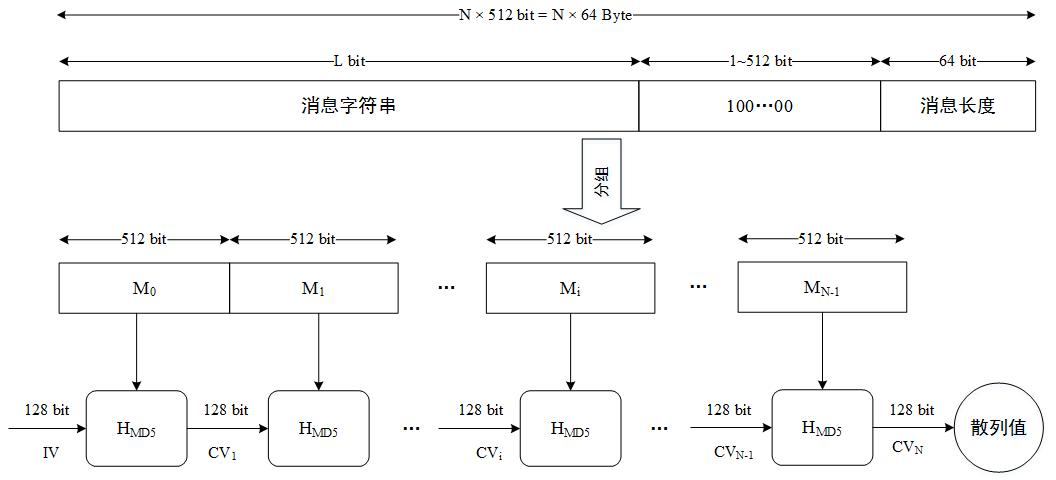
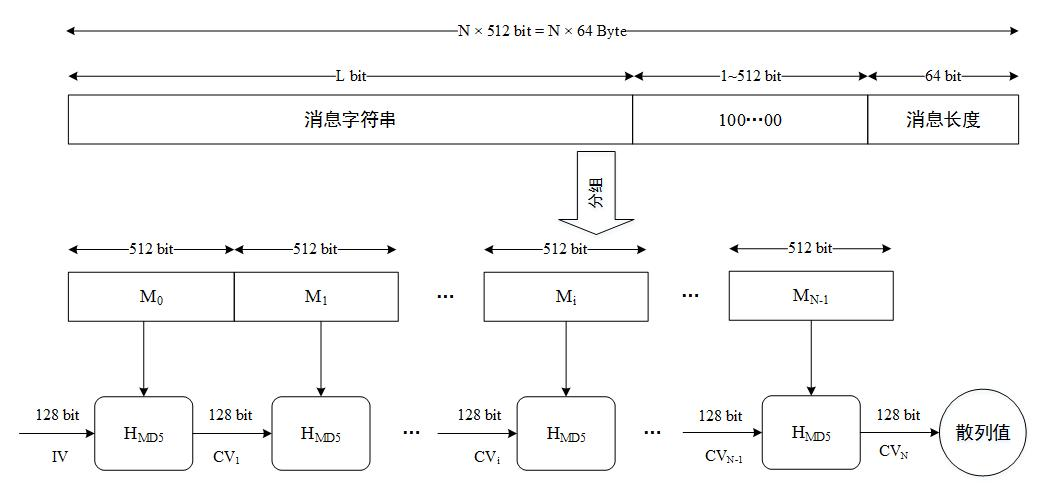
Update Hash Length Extension Attack 1.Update the flow charts in MD5 hash function. 2.Revise the illustration of attack theory.

diff --git a/source/_posts/Hash Length Extension Attack（哈希长度扩展攻击）.md b/source/_posts/Hash Length Extension Attack（哈希长度扩展攻击）.md
@@ -25,44 +25,60 @@ mathjax: true
 
 [MD5](https://en.wikipedia.org/wiki/MD5) 算法由美国麻省理工密码学家 [Ronald Rivest](https://en.wikipedia.org/wiki/Ron_Rivest) 在 MD2、MD3 与 MD4 的基础上设计而成，并在 1992 年公开发表，在规范 [RFC 1321](https://tools.ietf.org/html/rfc1321) 中作了详尽阐述。
 
-MD5 算法的输入为长度小于 $2^{64} \ bit$ 的消息比特串，输出为固定 $128 \ bit$ 的消息散列值。输入的数据以 $512 \ bit$ 为分组进行处理。MD5 算法流程如下图所示。
+MD5 算法的输入为长度小于 $2^{64} \ bit$ 的消息比特串，输出为固定 $128 \ bit$ 的消息散列值，输入数据需要以 $512 \ bit$ 为单位进行分组。
+
+MD5 算法的流程图如下：
 
 ![md5_process](http://oyhh4m1mt.bkt.clouddn.com/Hash_Length_Extension_Attack/md5_process.jpg)
 
-其中 $L$ 是消息比特串；$N$ 是消息扩充后的分组个数；$M_i$ 是第 $i$ 个分组，$0 \le i \le N-1$；$IV$ 是 $128 \ bit$ 的初始链接变量，由 4 个 $32 \ bit$ 的寄存器构成；$CV_i$ 是链接变量，代表第 $i$ 个分组单元的输入，而最后一个单元 $B_{N-1}$ 的输出 $CV_N$ 即为消息的散列值。算法具体流程如下：
+-  $L$ 是消息比特串的原始长度；
+
+-  $N$ 是消息扩充后的分组个数；
+
+-  $M_i$ 是消息扩充后的第 $i$ 个分组，$0 \le i \le N-1$；
+
+-  $IV$ 是 $128 \ bit$ 的初始链接变量，由 4 个 $32 \ bit$ 的寄存器构成；
+
+-  $CV_i$ 是链接变量，代表 $M_i$ 分组单元的输入，也是 $M_{i-1}$ 分组单元的输出，$1 \le i \le N-1$。**注意，最后一个分组单元 $M_{N-1}$ 的输出 $CV_N$ 即为消息的散列值。**
+
+MD5 算法的具体流程描述如下：
 
 ### （1）附加填充
 
-先填充一个“1”比特和若干个“0”比特使消息长度在模 512 下与 448 同余，再将消息的原始长度用一个 $64 \ bit$ 的整型表示，以[小端字节序（Little-Endian）](https://en.wikipedia.org/wiki/Endianness#Little)的方式继续填充，使得扩充后的消息长度为 $512 \ bit$ 的整数倍，可表示为：
+先填充一个「1」比特和若干个「0」比特使消息长度在模 512 下与 448 同余，再将消息的原始长度用一个 $64 \ bit$ 的整型表示，以[小端字节序（Little-Endian）](https://en.wikipedia.org/wiki/Endianness#Little)的方式继续填充，使得扩充后的消息长度为 $512 \ bit$ 的整数倍，可表示为：
 
 $$
 \begin{cases}
-L + padding_1 + padding_2 = N \times 512  \\
-L + padding_1 \equiv 448 \ mod \ 512  \\
+L + padding\_seq + padding\_len = N \times 512  \\
+L + padding\_seq \equiv 448 \ mod \ 512  \\
 \end{cases}
 $$
 
-其中 $L$ 是消息比特串；$padding_1$ 是比特串 "$100 \cdots 00$" 的长度；$padding_2$ 恒为 $64 \ bit$，代表原始消息长度。各自的取值范围如下：
+- $L$ 是消息比特串的原始长度；
+- $padding\_seq$ 是比特串「$100 \cdots 00$」的长度；
+- $padding\_len$ 恒为 $64 \ bit$，代表原始消息长度。
+
+各自的取值范围如下：
 
 $$
 \begin{cases}
 0 \le L \lt 2^{64}  \\
-0 \lt padding_1 \le 512  \\
-padding_2 = 64
+1 \le padding\_seq \le 512  \\
+padding\_len = 64
 \end{cases}
 $$
 
-下面举例说明，假设要对字符串“hello world”进行附加填充：
+下面举例说明，假设要对字符串「hello world」进行附加填充：
 
 ![example1](http://oyhh4m1mt.bkt.clouddn.com/Hash_Length_Extension_Attack/example1.jpg)
 
-可见消息比特串长度为 $11 \ Byte$，即 $88 \ bit$，因此在第 $89 \ bit$ 处填充"1"比特，然后填充“0”比特直至长度为 $448 \ bit$，而原始长度 $88 \ bit$ 的十六进制为 $0x58 \ bit$，根据小端原则应放在低地址 $0x00000038$ 处，而高地址全部为 $0x00$。
+可见消息比特串长度为 $11 \ Byte$，即 $88 \ bit$，因此在第 $89 \ bit$ 处填充「1」比特，然后填充「0」比特直至长度为 $448 \ bit$，而原始长度 $88 \ bit$ 的十六进制为 $0x58 \ bit$，根据小端原则应放在低地址 $0x00000038$ 处，而高地址全部为 $0x00$。
 
 **注意，附加填充对任何消息比特串来说都是必须的，即使消息原始长度恰为 $448 \ bit$：**
 
 ![example2](http://oyhh4m1mt.bkt.clouddn.com/Hash_Length_Extension_Attack/example2.jpg)
 
-即使消息比特串长度为 $56 \ Byte$，即 $448 \ bit$，也要在第 $449 \ bit$ 处填充"1"比特，然后填充“0”比特直至下一分组单元长度为 $448 \ bit$，而原始长度 $448 \ bit$ 的十六进制为 $0x01B0 \ bit$，根据小端原则低地址 $0x00000078$ 处为 $0xB0$，$0x00000079$ 处为 $0x01$，而高地址全部为 $0x00$。
+即使消息比特串长度为 $56 \ Byte$，即 $448 \ bit$，也要在第 $449 \ bit$ 处填充「1」比特，然后填充「0」比特直至下一分组单元长度为 $448 \ bit$，而原始长度 $448 \ bit$ 的十六进制为 $0x01C0 \ bit$，根据小端原则低地址 $0x00000078$ 处为 $0xC0$，$0x00000079$ 处为 $0x01$，而高地址全部为 $0x00$。
 
 ### （2）初始链接变量
 
@@ -90,7 +106,7 @@ $$
 
 ### （3）分组单元迭代压缩
 
-每个分组单元 $M_i$ 的迭代压缩由 4 轮组成，将 $512 \ bit$ 的分组单元均分为 16 个子分组参与每轮的 16 步函数运算，每步函数的输入为 4 个 $32 \ bit$ 的整型变量和 1 个 $32 \ bit$ 的子分组，输出也为 4 个 $32 \ bit$ 的整型变量，作为下一步函数的输入。经过 4 轮共 64 步函数运算后，将 4 个 $32 \ bit$ 寄存器中的结果分别与相应输入链接变量在模 $2^{32}$ 下相加，即得到该分组单元的输出链接变量。若为最后一个分组，则输出为消息的散列值。
+每个分组单元 $M_i$ 的迭代压缩由 4 轮组成，将 $512 \ bit$ 的分组单元均分为 16 个子分组参与每轮 16 次的步函数运算，每次步函数的输入为 4 个 $32 \ bit$ 的整型变量和 1 个 $32 \ bit$ 的子分组，输出也为 4 个 $32 \ bit$ 的整型变量，作为下一次步函数的输入。经过 4 轮共 64 次的步函数运算后，将 4 个 $32 \ bit$ 寄存器中的结果分别与相应输入链接变量在模 $2^{32}$ 下相加，即得到该分组单元的输出链接变量。若为最后一个分组，则输出为消息的散列值。
 
 ![iteration](http://oyhh4m1mt.bkt.clouddn.com/Hash_Length_Extension_Attack/iteration.jpg)
 
@@ -98,7 +114,7 @@ $$
 
 ### （4）步函数
 
-MD5 迭代压缩算法每一轮都包含 16 步函数运算，同一轮中的步函数使用相同的非线性函数，不同轮之间非线性函数是不同的。设输入 $B、C、D$ 是 3 个 $32 \ bit$ 的整型变量，输出是 1 个 $32 \ bit$ 的整型变量，则每一轮的非线性函数 $F、G、H、I$ 分别定义如下：
+MD5 迭代压缩算法每一轮都包含 16 次的步函数运算，同一轮中的步函数使用相同的非线性函数，不同轮之间非线性函数是不同的。设输入 $B、C、D$ 是 3 个 $32 \ bit$ 的整型变量，输出是 1 个 $32 \ bit$ 的整型变量，则每一轮的非线性函数 $F、G、H、I$ 分别定义如下：
 
 $$
 \begin{cases}
@@ -113,48 +129,62 @@ $$
 
 ![step_function](http://oyhh4m1mt.bkt.clouddn.com/Hash_Length_Extension_Attack/step_function.jpg)
 
-其中 $M[j]$ 表示分组单元 $M_i$ 的第 $j$ 个 $32 \ bit$ 子分组，$0 \le j \le 15$；$<<< s$ 表示循环左移 $s$ 位；$T[i]$ 是一个伪随机常数，$1 \le i \le 64$，用于消除输入数据的规律性，其构造方法与具体取值请见规范 RFC 1321。
+- $M[j]$ 表示当前分组单元 $M$ 的第 $j$ 个 $32 \ bit$ 子分组，$0 \le j \le 15$；
+- $<<< s$ 表示循环左移 $s$ 位；
+- $T[i]$ 是一个伪随机常数，用于消除输入数据的规律性，$1 \le i \le 64$，$i$ 对应着 4 轮共 64 次步函数的执行顺序，其构造方法与具体取值请见规范 [RFC 1321](https://tools.ietf.org/html/rfc1321)。
 
-上图为步函数的流程，先取输入整型变量 $B、C、D$ 作为参数执行一次非线性函数，将结果依次加上 $A、M[j]、T[i]$，再将结果循环左移 $s$ 位后加上 $B$，把最终结果赋值给 $B$，而 $B、C、D$ 的输入值依次赋值给 $C、D、A$，得到输出整型变量，作为下一次步函数的输入。上述加法均在模 $2^{32}$ 下。
+上图为步函数的具体流程：先取输入整型变量 $B、C、D$ 作为参数执行一次非线性函数，将结果依次加上 $A、M[j]、T[i]$，再将结果循环左移 $s$ 位后加上 $B$，把最终结果赋值给 $B$，而 $B、C、D$ 的输入值依次赋值给 $C、D、A$，得到本次步函数的输出，同时也作为下一次步函数的输入。上述加法运算均在模 $2^{32}$ 下。
 
 ## Hash Length Extension Attack
 
 ### 漏洞原理
 
-**Hash Length Extension Attack** 适用于采用了 Merkle–Damgård 结构的哈希函数，在攻击者不知道 $secret$ 的情况下，已知 $message1$ 与 $MD5(secret \ || \ message1)$，可以推算出 $MD5(secret \ || \ message1 \ || \ padding1 \ || \ message2)$ 的值。
+**Hash Length Extension Attack** 适用于采用了 Merkle–Damgård 结构的哈希函数，攻击者在不知道 $secret$ 的情况下，若已知 $message1$ 与 $MD5(secret \ || \ message1)$，可以推算出 $MD5(secret \ || \ message1 \ || \ padding1 \ || \ message2)$ 的值。
 
-其中 $||$ 是字符串连接符；$message1$ 是用户需要计算散列值的明文消息；$secret$ 是哈希运算中与明文消息一起计算的私密字符串，相当于消息认证码中的 $key$，或者加“盐”哈希中的 $salt$；$padding1$ 是计算 $MD5(secret \ || \ message1)$ 时的填充字节；$message2$ 是攻击者构造的任意字符串。
+- $||$ 是字符串连接符；
+- $message1$ 是用户需要计算散列值的明文消息；
+- $secret$ 是哈希运算中与明文消息一起计算的私密字符串，相当于消息认证码中的 $key$，或者加「盐」哈希中的 $salt$；
+- $padding1$ 是计算 $MD5(secret \ || \ message1)$ 时的附加填充；
+- $message2$ 是攻击者构造的任意字符串。
 
-**注意，由于要根据 $MD5(secret \ || \ message1)$ 推算 $MD5(secret \ || \ message1 \ || \ padding1 \ || \ message2)$，因此 $secret$ 和 $message1$ 的长度必须知道。换句话说，需要知道 $(secret \ || \ message1 \ || \ padding1)$ 有多少字节才能构造出 $padding2$，即计算 $MD5(secret \ || \ message1 \ || \ padding1 \ || \ message2)$ 时的填充字节，因为 $padding2$ 包含了 $(secret \ || \ message1 || \ padding1 \ || \ message2)$ 的总长度。**
+**注意，由于要根据 $MD5(secret \ || \ message1)$ 推算 $MD5(secret \ || \ message1 \ || \ padding1 \ || \ message2)$，因此 $secret$ 和 $message1$ 的长度必须知道。换句话说，需要知道 $(secret \ || \ message1 \ || \ padding1)$ 有多少字节才能构造出 $padding2$，即计算 $MD5(secret \ || \ message1 \ || \ padding1 \ || \ message2)$ 时的附加填充，因为 $padding2$ 包含了 $(secret \ || \ message1 || \ padding1 \ || \ message2)$ 的总长度。**
 
 道哥在《白帽子讲Web安全》的 **[Understanding MD5 Length Extension Attack](http://blog.chinaunix.net/uid-27070210-id-3255947.html)** 一文中对此攻击作了详细叙述，本文就其中的 PoC 举例作出讲解。
 
 ![poc](http://oyhh4m1mt.bkt.clouddn.com/Hash_Length_Extension_Attack/poc.jpg)
 
-为了方便说明，上图 PoC 中只有 $secret$，省略了 $message1$。可见，此处的 $secret$ 为随机产生的一个小数字符串，长度为 $18 \ Byte$，即 $144 \ bit$， $MD5(secret)$ 与 $padding1$ 如上图所示，任意值 $message2$ 此处取为“Welcome to Secrypt Agency!”，攻击得到的散列值与 $MD5(secret \ || \ padding1 \ || \ message2)$ 相等，表示攻击成功。
+为了方便说明，上图 PoC 中只有 $secret$，省略了 $message1$。可见，此处的 $secret$ 为随机产生的一个小数字符串，长度为 $18 \ Byte$，即 $144 \ bit$， $MD5(secret)$ 与 $padding1$ 如上图所示，任意值 $message2$ 此处取为「Welcome to Secrypt Agency!」。攻击后得到的散列值与 $MD5(secret \ || \ padding1 \ || \ message2)$ 相等，表示攻击成功。
 
-**注意，这里的 $h0、h1、h2、h3$ 分别为上述的 $A、B、C、D$，并且用有符号 $32 \ bit$ 整型数表示。**如 run time = 0 时的 $h0$：
+**注意，这里的 $h0、h1、h2、h3$ 分别为上述的 $A、B、C、D$，并且用 $32 \ bit$ 有符号整型数表示。**如 run time = 0 时的 $h0$：
 
-$$h0 = 841628852 = 0x322a3cb4$$
+$$
+h0 = 841628852 = 0x322a3cb4
+$$
 
-其小端字节序正好对应散列值的前 $4 \ Byte$，即 $b43c2a32$。对于负数，其补码表示的正数与其在模 $2^{32}$ 下同余的正数相等，如 run time = 0 时的 $h2$：
+其小端字节序正好对应散列值的第 $1$ ~ $4 \ Byte$，即 $0xb43c2a32$。对于负数，其补码表示的正数与其在模 $2^{32}$ 下同余的正数相等，如 run time = 0 时的 $h2$：
 
-$$h2 = -474181071 \equiv 3820786225 \ mod \ 2^{32} = 0xe3bc9231$$
+$$
+h2 = -474181071 \equiv 3820786225 \ mod \ 2^{32} = 0xe3bc9231
+$$
 
-其小端字节序对应散列值的第 $9$ ~ $12 \ Byte$，即 $3192bce3$。
+其小端字节序对应散列值的第 $9$ ~ $12 \ Byte$，即 $0x3192bce3$。
 
-此处纠正 Understanding MD5 Length Extension Attack 文中 PoC 源代码中的一处错误，在 md5_le.js 文件的 159 行，`i = parseInt(m_len / 64) + 1` 并非恒成立，当 `m_len % 64 >= 56` 时，附加填充将会多占用一个字节，此时应为 `i = parseInt(m_len / 64) + 2`。**解决方案：在循环前先判断变量 i 的取值。**
+此处纠正 Understanding MD5 Length Extension Attack 文中 PoC 源代码中的一处错误，在 md5_le.js 文件的 159 行：
 
 ``` javascript
 for (i = parseInt(m_len/64)+1; i < databytes.length / 64; i++)
 ```
+
+其中 `i = parseInt(m_len / 64) + 1` 并非恒成立，当 $56 \le m\_len \ \% \ 64 \lt 64$ 时，附加填充将会多占用一个字节，此时应为 `i = parseInt(m_len / 64) + 2`。
+
+**解决方案：在循环前先判断变量 `m_len` 的范围，再决定变量 `i` 的取值。**
 
 ### 漏洞修复
 
 Hash Length Extension Attack 是 Merkle–Damgård 结构的固有缺陷，只要采用了此结构的哈希函数都会存在此漏洞。因此没有药到病除的方法，只有以下几条权宜之计供参考：
 
 1.  **采用 HAMC、SHA-3 等**非 Merkle–Damgård 结构或不受其影响的哈希算法；
-2.  **将 $secret$ 值放在参数末尾。**若已知 $MD5(message1 \ || \ secret)$，要求出 $MD5(message1 \ || \ secret \ || \ padding1 \ || \ message2)$ 是很困难的，因为 $secret$ 的附加策略是在参数末尾，所以只会得到 $MD5(message1 \ || \ padding1^{'} \ || \ message2 \ || \ secret)$，在 $secret$ 未知的情况下是求不出该值的。
+2.  **将 $secret$ 值放在输入参数末尾。**若已知 $MD5(message1 \ || \ secret)$，想求出 $MD5(message1 \ || \ secret \ || \ padding1 \ || \ message2)$ 是很困难的，因为 $secret$ 的附加策略是在输入参数末尾，所以只会得到 $MD5(message1 \ || \ padding1^{'} \ || \ message2 \ || \ secret)$，在 $secret$ 未知的情况下是求不出该值的。
 
 # 0x02 HashPump
 
@@ -193,7 +223,7 @@ HashPump [-h help] [-t test] [-s signature] [-d data] [-a additional] [-k keylen
 
 ## 【实验吧 CTF】 Web —— 让我进去
 
-此题结合了 PHP 的代码审计与 Hash Length Extension Attack，难度中等，需要的基础知识有：**PHP、Linux、HTTP协议、MD5加密原理**。相关链接如下：
+此题结合了 PHP 的代码审计与 Hash Length Extension Attack，难度中等，需要的基础知识有：**PHP、Linux、HTTP协议、MD5加密原理。**相关链接如下：
 
 - 题目链接：[http://www.shiyanbar.com/ctf/1848](http://www.shiyanbar.com/ctf/1848)
 - 解题链接：[http://ctf5.shiyanbar.com/web/kzhan.php](http://ctf5.shiyanbar.com/web/kzhan.php)
@@ -214,13 +244,13 @@ HashPump [-h help] [-t test] [-s signature] [-d data] [-a additional] [-k keylen
 
 ![lmi_source2](http://oyhh4m1mt.bkt.clouddn.com/Hash_Length_Extension_Attack/lmi_source2.jpg)
 
-由以下语句可知 Cookie `sample-hash` 原来是 `$secret` 与 “adminadmin” 连接而成的字符串的 MD5 散列值，即上述的 $MD5(secret || message1)$， `$secret` 为 $15 \ Byte$ 长的字符串 $secret$，“adminadmin” 为 $message1$。
+由以下语句可知 Cookie `sample-hash` 原来是 `$secret` 与「adminadmin」连接而成的字符串的 MD5 散列值，即上述的 $MD5(secret || message1)$， $secret$ 为 $15 \ Byte$ 长的字符串变量 `$secret`，$message1$ 为字符串「adminadmin」 。
 
 ``` php
 setcookie("sample-hash", md5($secret . urldecode("admin" . "admin")), time() + (60 * 60 * 24 * 7));
 ```
 
-又由以下核心语句，得知爆 flag 的条件是设置一个新 Cookie `getmein`，它的值要与 `$secret + $username + $password` 组成的字符串的 MD5 散列值相等，但前面还有一个限制条件：`$username` 的值要等于 “admin”，且 `$password` 不能等于 “admin”。想到这里，就可知此题是要用 Hash Length Extension Attack 来伪造新的散列值绕过验证。
+又由以下核心语句，得知爆 flag 的条件是设置一个新 Cookie `getmein`，它的值要与 `$secret + $username + $password` 组成的字符串的 MD5 散列值相等，但前面还有一个限制条件：**`$username` 的值要等于「admin」，且 `$password` 不能等于「admin」。**想到这里，就可知此题是要用 Hash Length Extension Attack 来伪造新的散列值绕过验证。
 
 ``` php
 if (!empty($_COOKIE["getmein"])) {
@@ -242,7 +272,15 @@ if (!empty($_COOKIE["getmein"])) {
 
 ![lmi_hashpump](http://oyhh4m1mt.bkt.clouddn.com/Hash_Length_Extension_Attack/lmi_hashpump.jpg)
 
-其中 **Input Signature** 是 $MD5(secret \ || \ message1)$，**Input Data** 是 $message1$，**Input Key Length** 等于 15，**Input Data to Add** 是 $message2$。得到的结果 `ca78a24c34c2e13331e7b0425b567b09` 为 $MD5(secret \ || \ message1 \ || \ padding1 \ || \ message2)$。
+- **Input Signature** 是 $MD5(secret \ || \ message1)$，此处为 `sample-hash` 的取值`571580b26c65f306376d4f64e53cb5c7`；
+
+- **Input Data** 是 $message1$，此处为字符串「adminadmin」；
+
+- **Input Key Length** 是 $secret$ 的长度，此处为 15；
+
+- **Input Data to Add** 是 $message2$，此处设为字符串「ciphersaw」。
+
+可见，得到了 $MD5(secret \ || \ message1 \ || \ padding1 \ || \ message2)$ 的结果为 `ca78a24c34c2e13331e7b0425b567b09` 。
 
 最后，我们只要构造攻击 payload，在 Username 和 Password 框中输入，再创建一个新 Cookie `getmein = ca78a24c34c2e13331e7b0425b567b09`，Submit 后即能得到 flag 。构造的 payload 如下：
 
